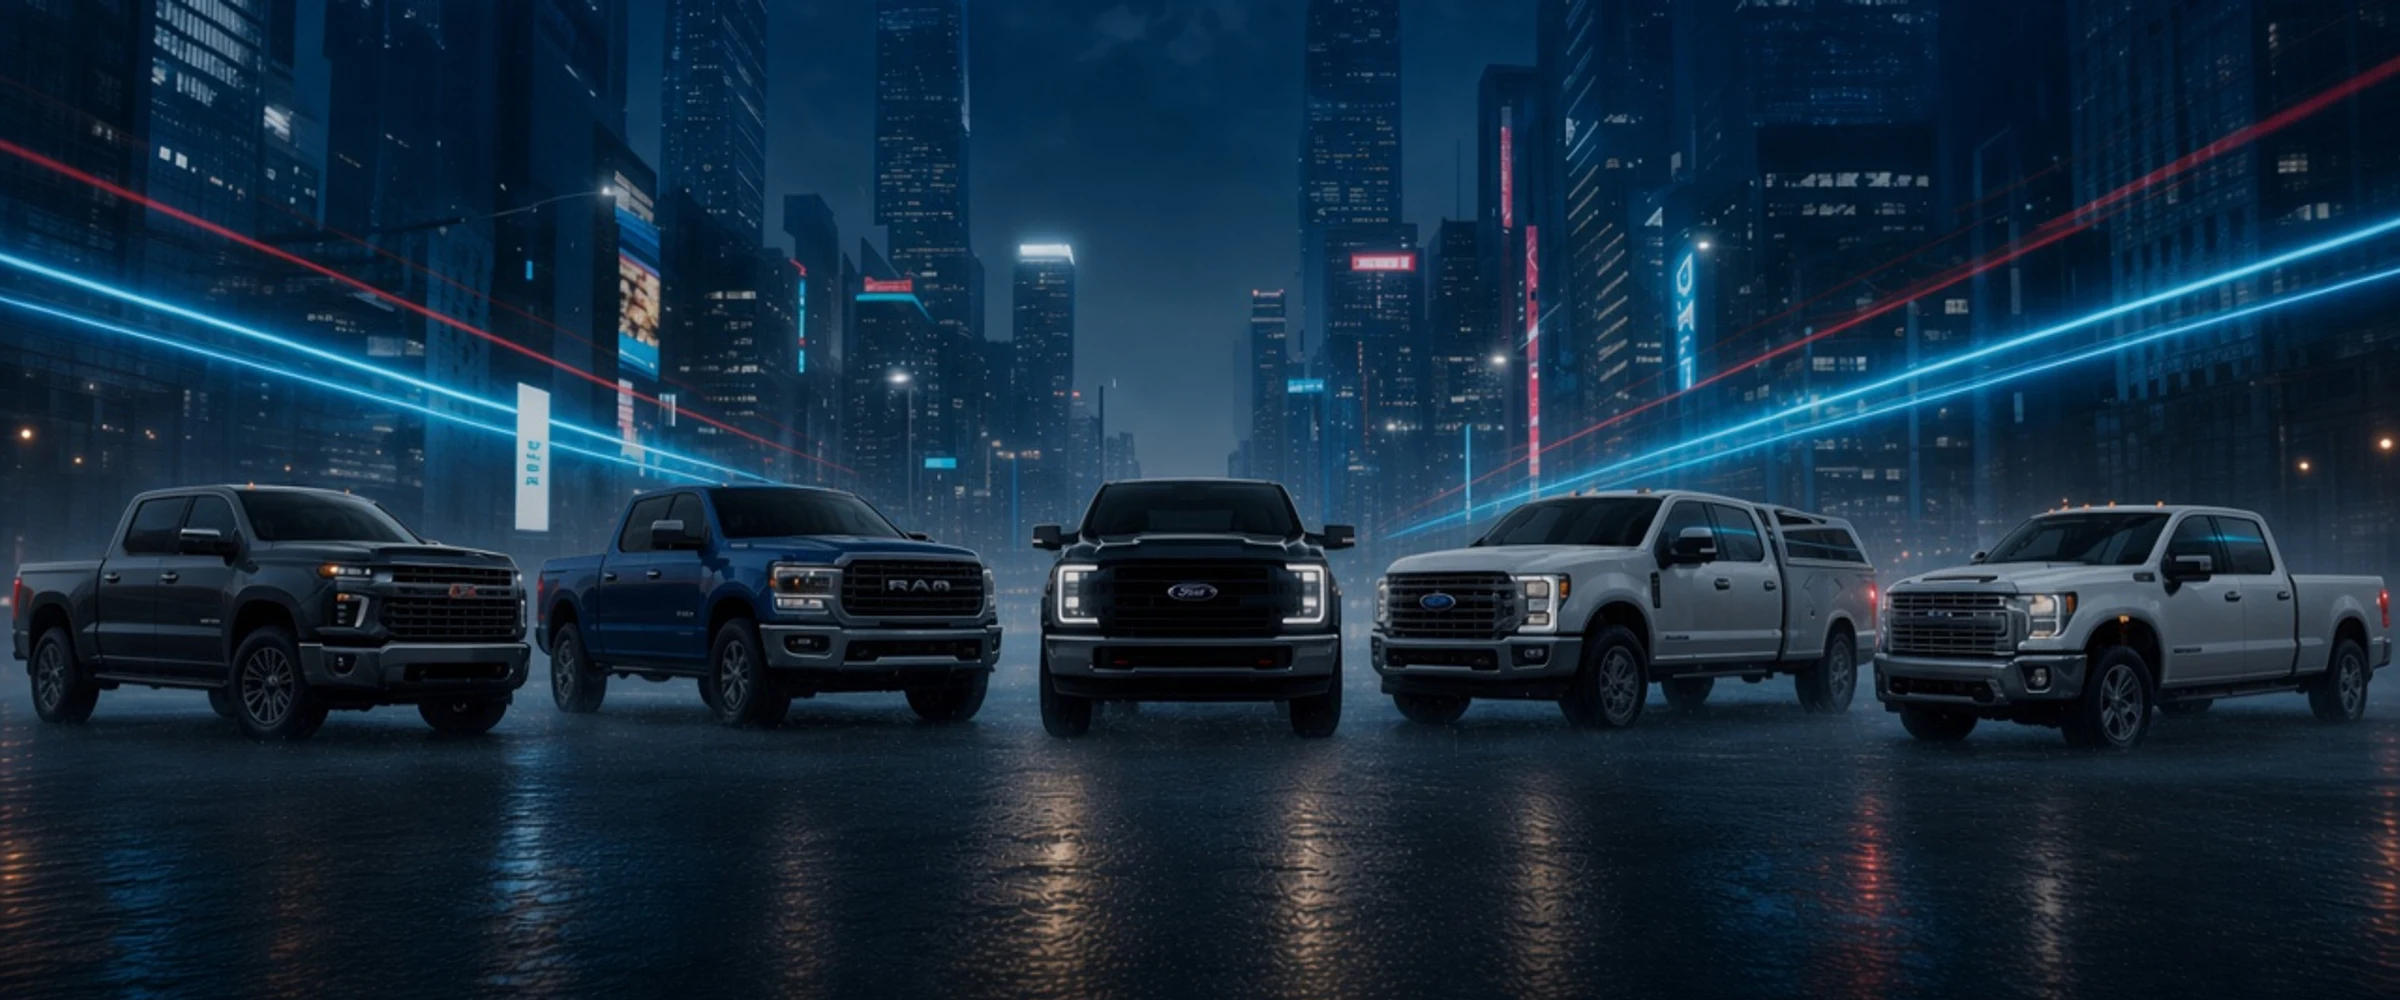
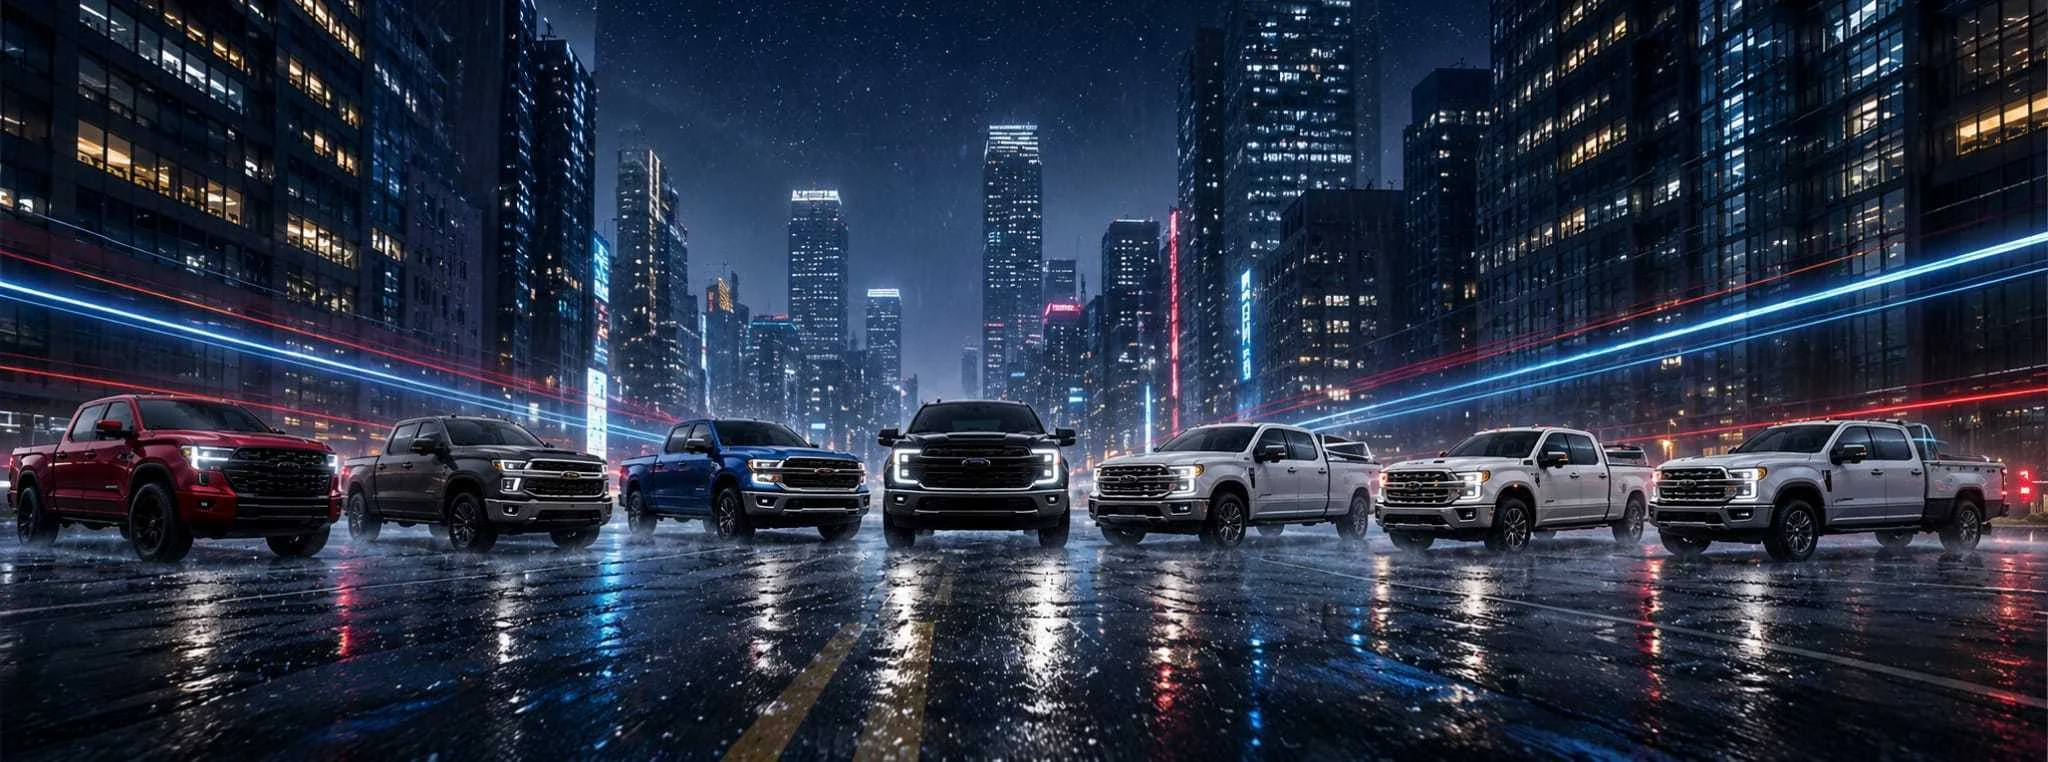
Replace the homepage night truck lineup photo.

diff --git a/src/app/page.tsx b/src/app/page.tsx
@@ -488,7 +488,7 @@ export default function Home() {
           <div ref={imageRef} className="absolute inset-0 will-change-transform">
             <Image
               src="/hero-bg-2.webp"
-              alt="Five pickup trucks lined up at night"
+              alt="Pickup trucks lined up on a wet city street at night"
               fill
               priority
               sizes="100vw"
